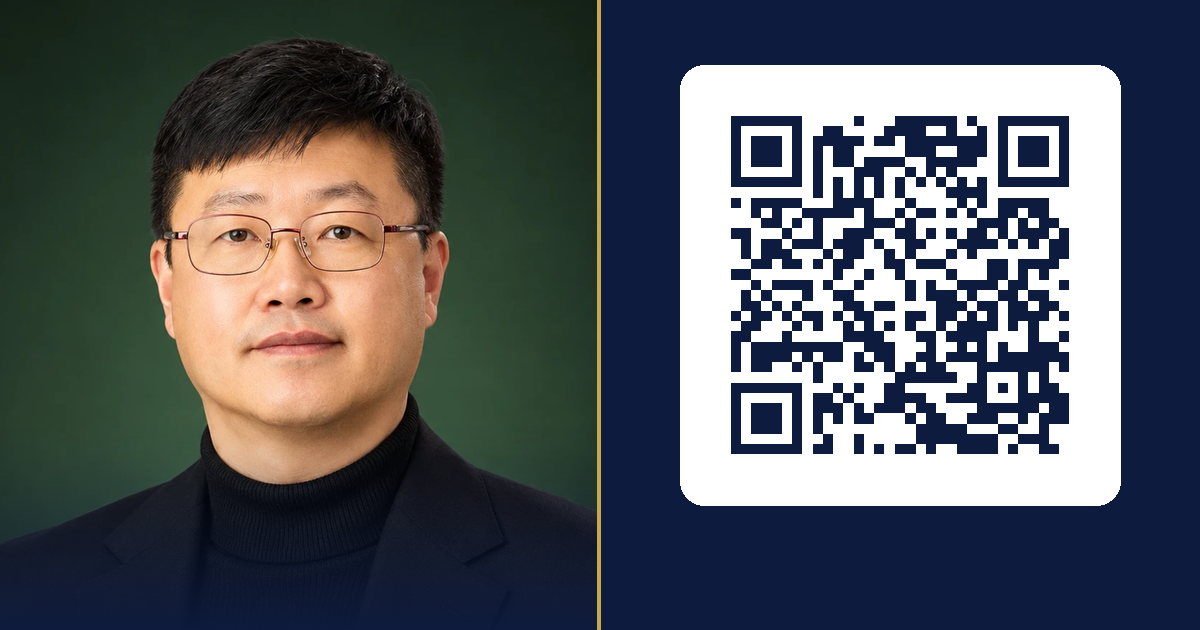
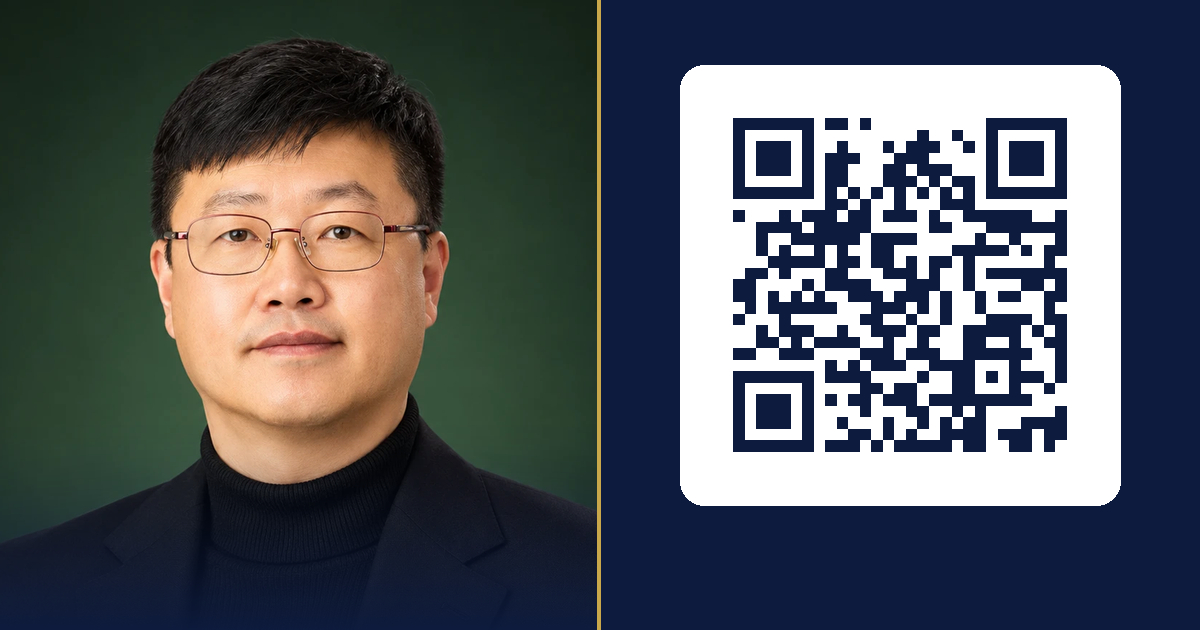
김근우: 카드 주소를 bnich.bizmy.net으로, QR·OG 다시 생성
Claude-Session: https://claude.ai/code/session_01NPD1GuokpoWLNZrm3TetsA

Changed region(s): [[0.5858, 0.181, 0.8942, 0.7238]]

diff --git a/김근우/index.html b/김근우/index.html
@@ -6,11 +6,11 @@
 <title>김근우 | 종합광고기획 창운</title>
 <meta property="og:title" content="김근우 | 대표 · 종합광고기획 창운">
 <meta property="og:description" content="필요한 홍보물, 품목에 맞는 곳으로 연결해 드려요.">
-<meta property="og:image" content="https://jinjjabg-hub.github.io/BNI-PIONEER-cards/%EA%B9%80%EA%B7%BC%EC%9A%B0/og.png">
+<meta property="og:image" content="https://bnich.bizmy.net/%EA%B9%80%EA%B7%BC%EC%9A%B0/og.png">
 <meta property="og:image:width" content="1200">
 <meta property="og:image:height" content="630">
 <meta property="og:type" content="website">
-<meta property="og:url" content="https://jinjjabg-hub.github.io/BNI-PIONEER-cards/김근우/">
+<meta property="og:url" content="https://bnich.bizmy.net/김근우/">
 <link rel="preconnect" href="https://fonts.googleapis.com">
 <!-- 언어팩에 따라 폰트 추가: references/languages.md 참고 -->
 <link href="https://fonts.googleapis.com/css2?family=Noto+Sans+KR:wght@300;400;500;700&family=Noto+Sans+JP:wght@400;700&family=Noto+Sans+SC:wght@400;700&display=swap" rel="stylesheet">
@@ -833,7 +833,7 @@ function setLang(lang) {
   });
 }
 function saveContact() {
-  const vcard = `BEGIN:VCARD\nVERSION:3.0\nFN:김근우\nORG:종합광고기획 창운\nTITLE:대표\nTEL:010-5664-5710\nEMAIL:imp8641@naver.com\nURL:https://jinjjabg-hub.github.io/BNI-PIONEER-cards/김근우/\nADR:;;부산광역시 부산진구 부전로 34, 1층 창운;;;;\nEND:VCARD`;
+  const vcard = `BEGIN:VCARD\nVERSION:3.0\nFN:김근우\nORG:종합광고기획 창운\nTITLE:대표\nTEL:010-5664-5710\nEMAIL:imp8641@naver.com\nURL:https://bnich.bizmy.net/김근우/\nADR:;;부산광역시 부산진구 부전로 34, 1층 창운;;;;\nEND:VCARD`;
   if (window.cbSaveContact) return cbSaveContact(vcard);
   const blob = new Blob([vcard], {type:'text/vcard'});
   const a = document.createElement('a');
@@ -843,7 +843,7 @@ function saveContact() {
 }
 
 /* ── 명함 전달하기 ── */
-const CARD_URL = 'https://jinjjabg-hub.github.io/BNI-PIONEER-cards/%EA%B9%80%EA%B7%BC%EC%9A%B0/';
+const CARD_URL = 'https://bnich.bizmy.net/%EA%B9%80%EA%B7%BC%EC%9A%B0/';
 const CARD_TITLE = '김근우 | 종합광고기획 창운';
 const CARD_TEXT = '필요한 홍보물, 품목에 맞는 곳으로 연결해 드려요. · 종합광고기획 창운 김근우 대표';
 
